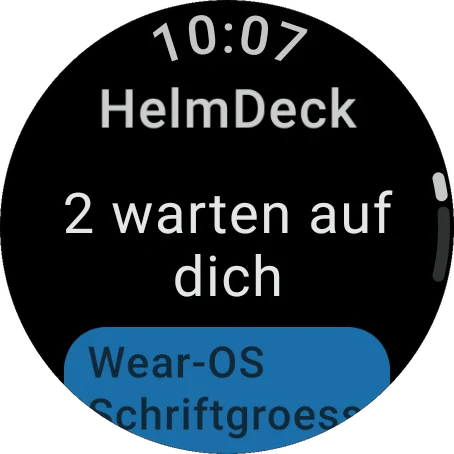
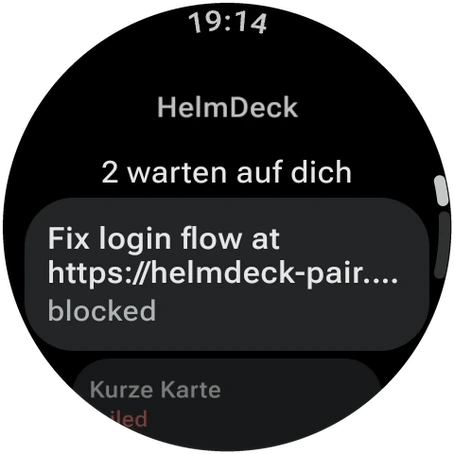
helmdeck.de: watch image is the real fixed Wear OS screen (font scale 1.0, after 23882d6c), round cutout

diff --git a/ops/deploy/waitlist/src/index.js b/ops/deploy/waitlist/src/index.js
@@ -730,7 +730,7 @@ details[open] summary::before{content:"+"; transform:rotate(45deg)}
 
   <section id="watch">
     <h2 data-i="watchTitle">On your wrist, too</h2>
-    <p class="section-sub" data-i="watchSub">Approve, decline or ask Henry from your watch. Real screen from the Wear OS app, with example goals.</p>
+    <p class="section-sub" data-i="watchSub">Approve, decline or ask Henry from your watch. Real screen from the Wear OS app.</p>
     <div class="watch">
       <figure class="watch-shot"><img src="/shots/watch-board.webp" width="454" height="454" alt="HelmDeck on a round watch: two goals are waiting for you" data-i-alt="watchAlt" loading="lazy"></figure>
       <div class="watch-cards">
@@ -1030,7 +1030,7 @@ ${wl("wearables")}
       th3H:"Teams statt Einzelkämpfer.",
       th3P:"Jede Entscheidung landet bei der Person, die sie treffen soll. Der Gründer arbeitet mit einem Partner in einer anderen Zeitzone: Abends übergibt er das Board, und beide sehen sofort, was sich bewegt hat und was auf sie wartet.",
       watchTitle:"Auch am Handgelenk",
-      watchSub:"Freigeben, ablehnen oder Henry fragen, direkt von der Uhr. Echter Screen der Wear-OS-App, mit Beispielzielen.",
+      watchSub:"Freigeben, ablehnen oder Henry fragen, direkt von der Uhr. Echter Screen der Wear-OS-App.",
       watchAlt:"HelmDeck auf einer runden Uhr: zwei Ziele warten auf dich",
       watchAppleNote:"Die Watch-App ist im iPhone-Paket enthalten. Installiere HelmDeck auf dem iPhone, dann erscheint sie auf deiner gekoppelten Uhr.",
       watchAppleBtn:"Im App Store laden",
@@ -1111,7 +1111,7 @@ ${wl("wearables")}
       th3H:"Teams, not individuals.",
       th3P:"Every decision lands with the one person who should make it. The founder and a partner in another time zone hand the board over at night, and each sees what moved and what is waiting on them.",
       watchTitle:"On your wrist, too",
-      watchSub:"Approve, decline or ask Henry from your watch. Real screen from the Wear OS app, with example goals.",
+      watchSub:"Approve, decline or ask Henry from your watch. Real screen from the Wear OS app.",
       watchAlt:"HelmDeck on a round watch: two goals are waiting for you",
       watchAppleNote:"The watch app is included in the iPhone package. Install HelmDeck on your iPhone and it appears on your paired watch.",
       watchAppleBtn:"Get it on the App Store",
